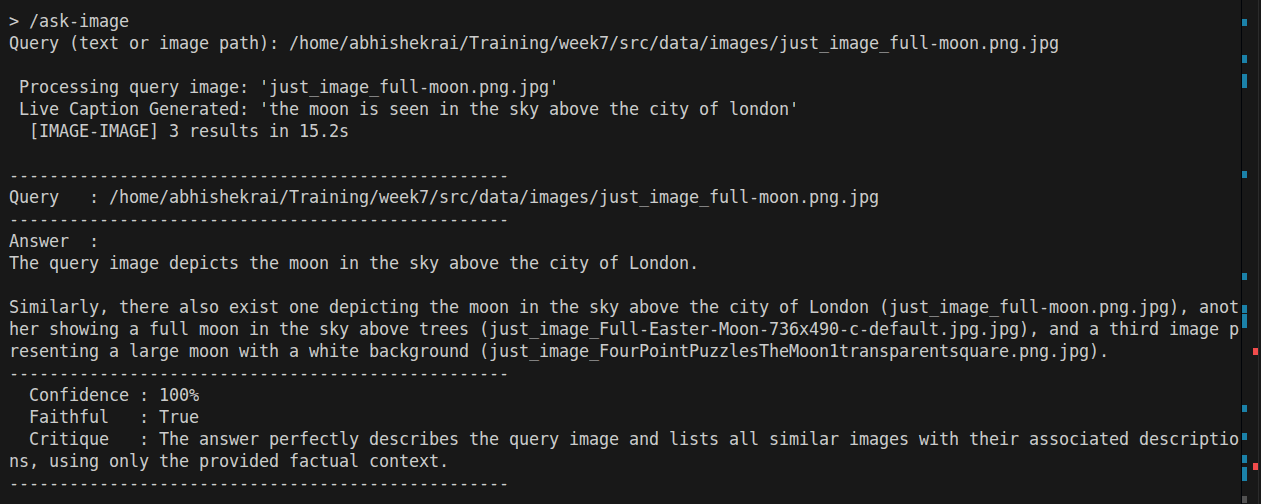
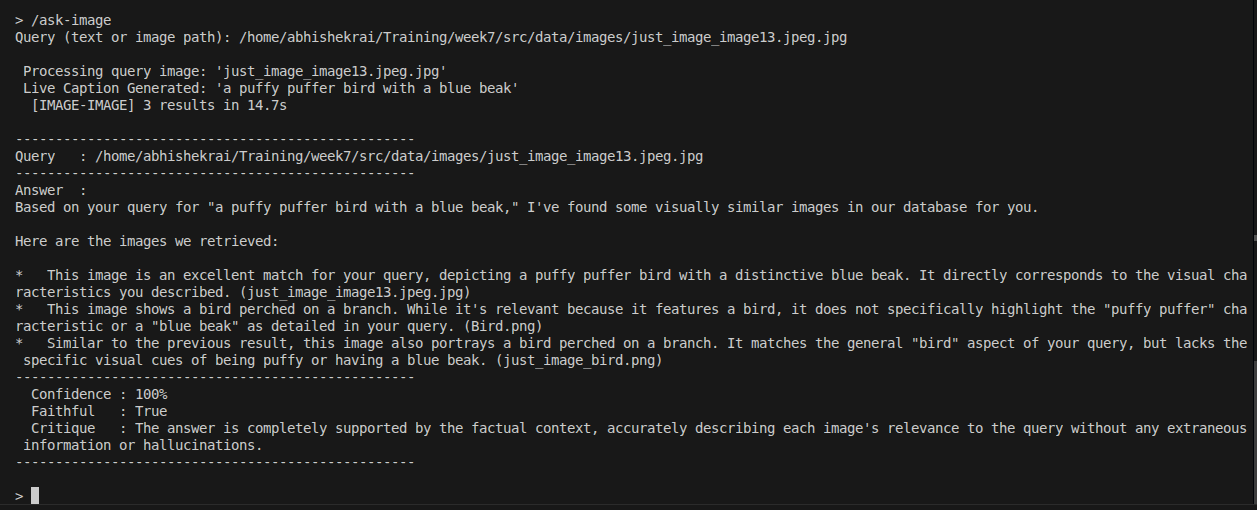
Updation

diff --git a/week7/src/deployment/app.py b/week7/src/deployment/app.py
@@ -115,7 +115,7 @@ class RAGEngine:
         self.memory.add_interaction(query, final_answer, metadata=ev, endpoint="/ask-sql")
         return final_answer, sql, results, ev
 
-    # ── /ask-image ────────────────────────────────────────
+   # ── /ask-image ────────────────────────────────────────
     def ask_image(self, query: str, top_k: int = 3):
         t0 = time.time()
         is_image = os.path.isfile(query)
@@ -138,22 +138,40 @@ class RAGEngine:
             part = f"- {m['filename']} (caption: {m['caption']}" + (f", text: {m['ocr']}" if m.get('ocr') else "") + ")"
             similar_parts.append(part)
 
-        prompt = (
-            query_context
-            + f"\nSimilar images found:\n" + "\n".join(similar_parts)
-            + "\n\nFirst, briefly describe what the query is about. "
-            "Then mention the similar images using a phrase like 'Similarly, there also exist...' "
-            "and describe each briefly, including the filename in parentheses."
-        )
+        # --- THE UPGRADED PROMPT ---
+        retrieved_images_text = "\n".join(similar_parts)
+        prompt = f"""You are a helpful, expert visual search assistant. 
+Your goal is to answer the user's query and clearly explain the visually similar images we found in the database.
+
+--- USER QUERY ---
+{query_context}
+
+--- RETRIEVED IMAGES FROM DATABASE ---
+{retrieved_images_text}
+
+--- INSTRUCTIONS ---
+1. Opening: Start with a brief, natural summary directly addressing the user's query.
+2. The Handoff: Smoothly transition to mentioning the similar images we retrieved.
+3. The Breakdown: Describe each retrieved image concisely. Highlight why it is relevant to the query.
+4. The Reference: You MUST include the exact filename for every image you mention, wrapped in parentheses at the end of its description (e.g., (diagram_v2.png)).
+5. Formatting: Use bullet points when listing the similar images so it is easy for the user to scan. 
+"""
+
         answer = self._llm(prompt)
+        
+        # Format the context strictly for the evaluator
         context = f"Query: {query_desc}\nSimilar: {', '.join(r['metadata']['filename'] + ': ' + r['metadata']['caption'] for r in results)}"
+        
         ev = self.evaluator.evaluate_response(query, context, answer)
         final_answer = ev.get("fixed_answer", answer)
         mode = "image" if is_image else "text"
+        
         self._trace(f"IMAGE-{mode.upper()}", f"{len(results)} results in {time.time()-t0:.1f}s")
         self.memory.add_interaction(query, final_answer, metadata=ev, endpoint="/ask-image")
+        
         return results, final_answer, ev
-
+    
+    
     def _format_image_results(self, results):
         lines = []
         for i, r in enumerate(results, 1):
